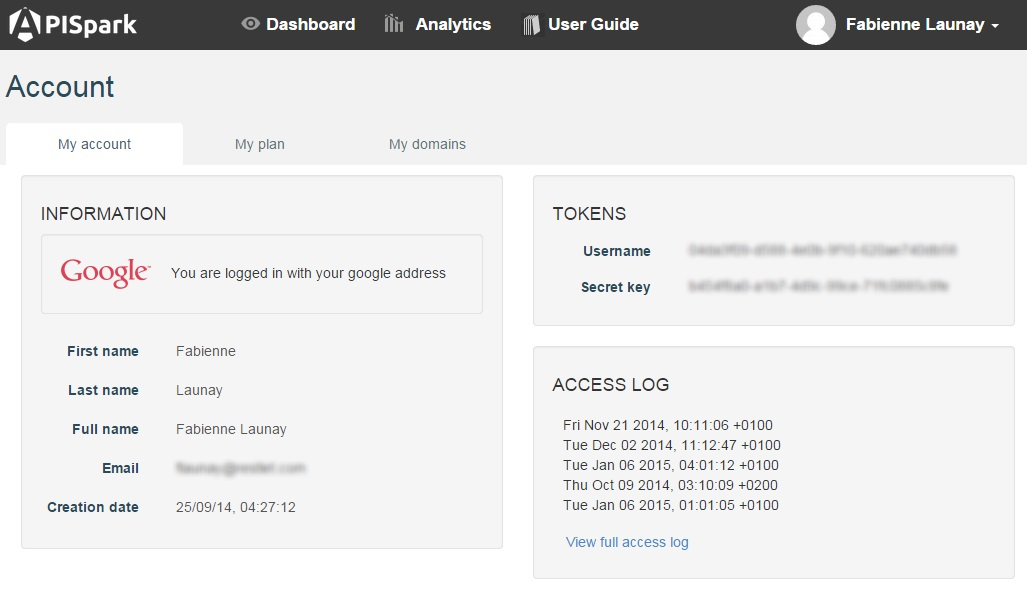
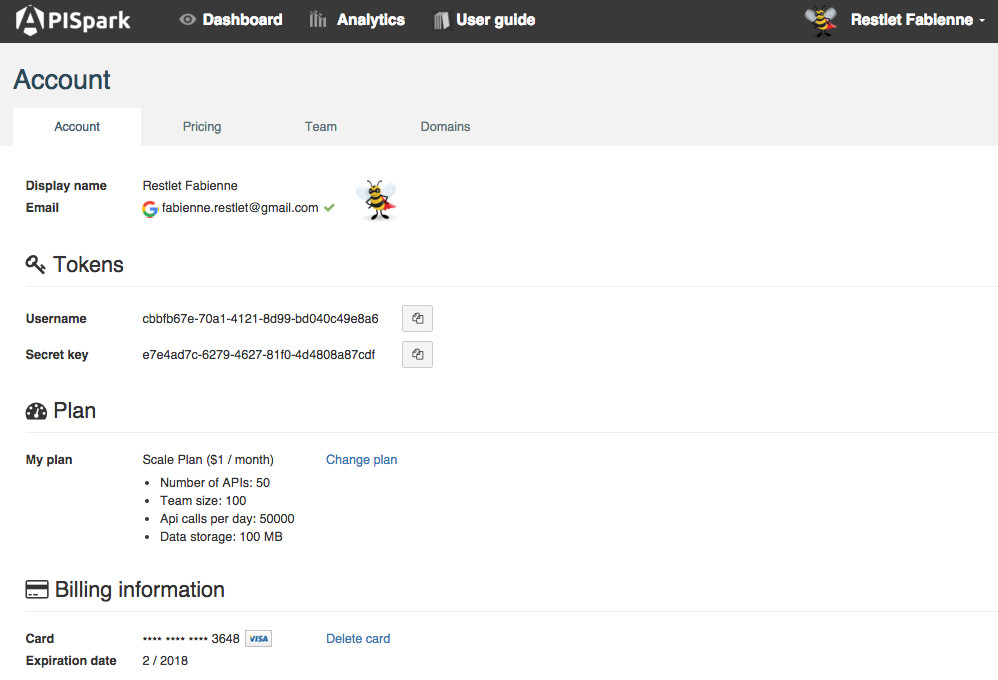
AS_Added Free trial & account info pages

diff --git a/modules/com.restlet/tech-doc/apispark/guide/01_get-started/07_account-info.md b/modules/com.restlet/tech-doc/apispark/guide/01_get-started/07_account-info.md
@@ -1,0 +1,77 @@
+All your Restlet Studio account details are available on the **Account** page.
+
+To navigate to your **Account** page, make sure you are signed in, then click on your username on top right of your screen and select **Account**.
+
+![My account](images/my-account.jpg "My account")
+
+The **Account** page is composed of 4 tabs: **Account**, **Pricing**, **Team** and **Domains**.
+
+# Account tab
+
+![My account tab](images/my-account-tab.jpg "My account tab")
+
+## User information
+
+This section provides information about your profile and the social network account you use to connect to APISpark.
+
+* **Display name**: name that will display on top right of your screen.  
+* **Email**:
+- logo of the social provider you used to sign in (or Auht0 logo if you signed in with your email address directly),
+- your email address,
+- a green tick if you confirmed your email address in the email that was sent automatically to your mailbox or a **Not verified** link if you did not,
+* your profile picture.
+
+## Tokens
+
+The **Tokens** section lists the tokens linked to your account.
+You will not need to use these tokens for now. You can simply sign in to APISpark with your social provider account.  
+
+## Plan
+
+You can downgrade or upgrade plan directly from your **Account** page.  
+
+ * **My plan**:
+- name of plan / price per month,
+- **Change plan** link.
+- Capacity linked to the plan you subscribed to
+
+
+Click on the **Change plan** link.  
+From the **Pricing** page, click on the appropriate **Downgrade** or **Upgrade** button and follow the confirmation messages.
+
+## Billing information
+
+You can change or delete your credit card details if necessary.
+
+* **Card**:
+- partially hidden credit card number and type of card,
+- **Delete card** link.
+* **Expiration date**: credit card expiration date in month/year format
+
+If you need to change the credit card you saved in your billing details, click on the **Delete card** link and enter your new credit card details.
+
+# Pricing tab
+
+From this tab, you can select the plan that best suits you. You may upgrade or downgrade your plan according to your needs.
+
+For more information head over to the [Subscribe](/technical-resources/apispark/guide/get-started/subscribe "Subscribe") page of our user documentation.
+
+# Team tab
+
+![Team tab](images/team-tab.jpg "Team tab")
+
+APISpark allows you to share your APIs with members of your team (if you subscribed to a Team or Scale [plan](/technical-resources/restlet-studio/guide/get-started/subscribe "plans")). Your team members will only see cells you shared with them and will be allowed to modify them or not depending on the [role](/technical-resources/apispark/guide/explore/team-work#members-rights "role") you granted them.
+
+>**Note:** At the bottom of the window, you can see the number of members you added to your team and the number of members you are allowed according to the plan you subscribed to e.g. 2/5. If you need to add more members, click **Upgrade**.
+
+## Add users to your team
+
+For more information on how to add members to your team, jump to the [Team work](/technical-resources/apispark/guide/explore/team-work "Team work") section of our user guide.
+
+# Domains tab
+
+![My domains tab](images/my-domains-tab.jpg "My domains tab")
+
+You can create several domains on your account.
+
+For more information, jump to the [custom domains](/technical-resources/apispark/guide/create/edit/endpoints#custom-domains "custom domains") section of our online documentation.

diff --git a/modules/com.restlet/tech-doc/apispark/guide/01_get-started/06_subscribe.md b/modules/com.restlet/tech-doc/apispark/guide/01_get-started/06_subscribe.md
@@ -1,8 +1,6 @@
-# APISpark Base plans
+# APISpark plans overview
 
-## Plans overview
-
-As you subscribe to APISpark, you can choose between different base plan levels as defined in our <a href="https://restlet.com/pricing" target="_blank">Pricing page</a>.
+As you subscribe to APISpark, you can choose between different plan levels as defined in our <a href="https://restlet.com/pricing" target="_blank">Pricing page</a>. Each level includes a number of features associated to it. Of course you can switch to a higher or lower plan at any time.
 
 ![APISpark plans](images/apispark-plans.jpg "APISpark plans")
 
@@ -10,38 +8,17 @@ Restlet offers simple, all-inclusive plans that scale with your projects and you
 Getting started is free, and switching between plans is easy.  
 All plans include access to the whole Restlet platform: Restlet Studio, DHC by Restlet and APISpark.
 
-
 ## Select a plan
 
-When you Sign In, you are automatically assigned a **Free** plan. To upgrade your base plan level, you first need to enter your credit card details (see *Payment method* section below).
+To switch plan level, click on your user name on top right of your screen and select **Account**.
 
-To switch base plan level, click on your name in the top right of your screen and select **My account**.
+![Account](images/my-account.jpg "Account")
 
-![My account](images/my-account.jpg "My account")
+From the **Account** page, select the **Pricing** tab.  
+The **Pricing** page gives you a snapshot of what each plan allows you to do for what price. Depending on the Plan you subscribed to, you can click on the corresponding **Downgrade** or **Upgrade** button.
 
-Open the **My plan** tab. In the **Level** drop-down menu, select your base plan level (Free, Solo or Team).
+![Pricing page](images/plans.jpg "Pricing page")
 
-![Select plan](images/select-plan.jpg "Select plan")
-
-Click on the **Confirm subscription** button to activate the new plan.
-
-![Confirm subscription](images/confirm-subscription.jpg "Confirm subscription")
-
-# Payment methods
-
-In order to upgrade your plan from the **Free** plan, you need to enter your credit card details.
-
-To add a payment method to your account, click on your name on top right of your screen and select **My account**.
-
-![My account](images/my-account.jpg "My account")
-
-Click on **My plan** tab.  
-In the **Payment method** section, click on the **Add a payment method** button.
-
-![Add a payment method](images/add-a-payment-method.jpg "Add a payment method")
-
-Enter your credit card details and click on the **OK** button.
-
-![Create new payment method](images/credit-card-details.jpg "Create new payment method")
-
-Your credit card details are displayed in the **Payment method** section. You can now upgrade your base plan as described above.
+You will then need to enter your credit card details unless you have done it already.  
+You can also enter a new credit card by clicking **No, change card**.  
+Click on **Purchase** to confirm. A message will give you a recap of what this new plan allows you to do.

diff --git a/modules/com.restlet/tech-doc/apispark/guide/01_get-started/01_sign-in.md b/modules/com.restlet/tech-doc/apispark/guide/01_get-started/01_sign-in.md
@@ -1,13 +1,10 @@
-
-# Sign up
-
 APISpark's sign up process is straightforward. It relies on social login to make signing up as simple as possible for you.
 
 To sign up, click on the **Sign in** button from the <a href="https://apispark.restlet.com/signin" target="_blank">Welcome page</a> of our website and pick a social provider to identify yourself with. Your account will automatically be created for you.
 
 ![Sign in](images/sign-in-button.jpg "Sign in")
 
-## Sign in with your social provider account  
+# Log in with your social provider account  
 
 Several social login providers are supported, including **GitHub**, **Google** and **Facebook**. You can create an account for free with any of these providers if you do not already own one.
 
@@ -15,7 +12,7 @@ Several social login providers are supported, including **GitHub**, **Google** a
 
 If you are not already logged-in to your chosen provider, you will be asked to enter your username and password.
 
-## Sign up with an email account
+# Sign up with an email account
 
 If you do not own an account at these social providers, you can simply sign up using any existing email address.
 
@@ -24,38 +21,3 @@ Enter your email address and password.
 Click on the **Sign up** button.
 
 ![Sign up](images/sign-up-pop-up.jpg "Sign up")
-
-# The Account page
-
-All your APISpark account details are available on the **Account** page.
-
-To navigate to the **Account** page, make sure you are signed in, then click on your username on top right of your screen and select **My account**.
-
-![My account](images/my-account.jpg "My account")
-
-The **Account** page is composed of three tabs: **My account**, **My plan** and **My domains**.
-
-## My account
-
-![My account tab](images/my-account-tab.jpg "My account tab")
-
- * The **Information** section provides information about your profile and the social network account you use to connect to APISpark.  
- * The **Tokens** section lists the tokens linked to your account.
-You will not need to use these tokens for now. You can simply sign in to APISpark with your social provider account.  
- * The **Access Log** section logs your account activity.
-
-## My plan
-
-![My plan tab](images/my-plan.jpg "My plan tab")
-
-From this tab, you can select the plan that best suits you. You may upgrade or downgrade your plan according to your needs.
-
-The **My plan** tab also provides management of your **Payment Method**.
-
-## My domains
-
-![My domains tab](images/my-domains-tab.jpg "My domains tab")
-
-You can create several domains on your account.
-
-For more information, jump to the [custom domains](/technical-resources/apispark/guide/create/edit/endpoints#custom-domains "custom domains") section of our online documentation.

diff --git a/modules/com.restlet/tech-doc/apispark/guide/01_get-started/05_free-trial.md b/modules/com.restlet/tech-doc/apispark/guide/01_get-started/05_free-trial.md
@@ -1,0 +1,22 @@
+Restlet allows you to try Restlet Studio, DHC and APISpark for 14 days for free!
+
+You will be assigned a Team Plan.
+
+From APISpark, you will access the following features:
+
+- Cloud hosting of API
+- Authentication & authorization
+- Documentation & SDKs
+- API analytics
+- Custom domains
+- Premium support
+- Creation of up to 25 APIs
+- Launch of up to 50,000 API calls a day
+- Capacity of 100MB data storage
+- Collaboration with up to 5 members
+
+You can upgrade to a permanent Plan at any time. After 14 days, if you did not upgrade, you will be automatically assigned a Free Plan with limited features.
+
+The **Pricing** page indicates the number of days left in your free trial. To access it, click on your username on top right of your screen and select **Account**. From the **Account** page, select the **Pricing** tab.
+
+To start a Free Trial, click on **Start Free Trial** from the **Pricing** page.
